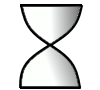
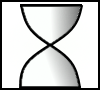
graphical overhaul

Changed region(s): [[0.0, 0.0, 1.0, 1.0]]

diff --git a/src/ui/componentfactory/UtilityComponentFactory.kt b/src/ui/componentfactory/UtilityComponentFactory.kt
@@ -1,6 +1,7 @@
 package ui.componentfactory
 
 import game.Writ
+import javafx.application.Platform
 import javafx.collections.FXCollections
 import javafx.event.EventHandler
 import javafx.geometry.Insets
@@ -9,7 +10,6 @@ import javafx.scene.Node
 import javafx.scene.control.*
 import javafx.scene.image.Image
 import javafx.scene.image.ImageView
-import javafx.scene.image.PixelFormat
 import javafx.scene.image.WritableImage
 import javafx.scene.input.MouseEvent
 import javafx.scene.layout.GridPane
@@ -17,15 +17,14 @@ import javafx.scene.layout.StackPane
 import javafx.scene.text.Font
 import javafx.scene.text.Text
 import javafx.util.Duration
-import jdk.jshell.execution.Util
 import main.UIGlobals
 import shortstate.ShortStateCharacter
 import shortstate.report.Report
 import ui.BOTTOM_BAR_PORTION
 import ui.Describable
+import ui.commoncomponents.PrettyPrintable
 import ui.specialdisplayables.NewSceneSelector
 import ui.specialdisplayables.selectionmodal.Tab
-import java.util.*
 
 object UtilityComponentFactory {
 
@@ -101,12 +100,23 @@ object UtilityComponentFactory {
         return listView
     }
 
-    internal class ActionPickCell<T: Describable>(val closeAction: (T) -> Unit) : ListCell<T>() {
+    internal class ActionPickCell<T: Describable>(val closeAction: ((T) -> Unit)?) : ListCell<T>() {
         public override fun updateItem(item: T?, empty: Boolean) {
             if(item != null){
                 super.updateItem(item, empty)
-                this.graphic = Text(item.description())
-                this.onMouseClicked = EventHandler{_ -> closeAction(item)}
+                val displayText = item.description()
+
+                if(closeAction != null){
+                    this.graphic = UtilityComponentFactory.shortWideButton(displayText, EventHandler { })
+                    this.onMouseClicked = EventHandler { _ -> this.graphic = UtilityComponentFactory.shortWideClickedButton(displayText, EventHandler { });  Platform.runLater { Thread.sleep(100); closeAction!!(item) }}
+                    this.padding = Insets.EMPTY
+                } else {
+                    val node = GridPane()
+
+                    node.add(UtilityComponentFactory.shortWideLabel(displayText),0,0)
+
+                    this.graphic = node
+                }
             }
         }
     }
@@ -120,7 +130,7 @@ object UtilityComponentFactory {
     }
 
     fun shortButton(text: String, action: EventHandler<MouseEvent>?, specialWidth: Double): Node {
-        val retval = proportionalButton(text, action, 4.0)
+        val retval = proportionalButton(text, action, specialWidth)
         return retval
     }
 
@@ -142,7 +152,7 @@ object UtilityComponentFactory {
         return retval
     }
 
-    fun extraShortWideLabel(text: String): Label {
+    fun extraShortWideLabel(text: String): Node {
         val retval = Label(text)
         setSize(retval, 1.0)
         retval.minHeight = UIGlobals.totalHeight()/20
@@ -150,16 +160,28 @@ object UtilityComponentFactory {
         return retval
     }
 
-    fun shortWideLabel(text: String): Label{
+    fun shortWideLabel(text: String): StackPane{
         return shortProportionalLabel(text, 1.0)
     }
 
-    fun shortProportionalLabel(text: String, proportion: Double): Label{
-        val retval = Label(text)
-        setSize(retval, proportion)
-        retval.alignment = Pos.CENTER
-        retval.padding = Insets(15.0)
-        retval.isWrapText = true
+    fun shortProportionalLabel(text: String, proportion: Double): StackPane{
+        return proportionalLabel(text, proportion, 0.1)
+    }
+
+    fun proportionalLabel(text: String, proportion: Double, height: Double): StackPane{
+        val text = Label(text)
+        setSize(text, proportion)
+        text.alignment = Pos.CENTER
+        text.padding = Insets(15.0)
+        text.isWrapText = true
+
+        val retval = StackPane()
+
+        val background = imageView("assets/general/generalInfo.png", height, proportion)
+
+        retval.children.add(background)
+        retval.children.add(text)
+
         return retval
     }
 
@@ -171,7 +193,11 @@ object UtilityComponentFactory {
         val image = if(clicked){ imageView("assets/general/generalButtonSelected.png", height, width)} else {imageView("assets/general/generalButton.png", height, width)}
 
         val text = Text(text)
-        text.font = Font(20.0)
+        if(clicked){
+            text.font = Font(19.0)
+        } else {
+            text.font = Font(20.0)
+        }
 
         val retval = StackPane()
         retval.children.add(image)
@@ -183,6 +209,13 @@ object UtilityComponentFactory {
                 image.fitWidth = UIGlobals.totalWidth() / width; action.handle(event) }
         }
         return retval
+    }
+
+    fun setButtonDisable(button: Node){
+        val buttonAsStack = button as StackPane
+        val oldImage = buttonAsStack.children[0] as ImageView
+        buttonAsStack.children[0] = imageView("assets/general/generalButtonDisabled.png", oldImage.fitHeight / UIGlobals.totalHeight(), UIGlobals.totalWidth()/oldImage.fitWidth)
+        buttonAsStack.onMouseClicked = EventHandler {  }
     }
 
     private fun setSize(node: Control, proportion: Double){

diff --git a/src/ui/specialdisplayables/NewGameMenu.kt b/src/ui/specialdisplayables/NewGameMenu.kt
@@ -2,6 +2,7 @@ package ui.specialdisplayables
 
 import javafx.event.EventHandler
 import javafx.scene.Scene
+import javafx.scene.control.Label
 import javafx.scene.layout.GridPane
 import main.Controller
 import main.UIGlobals
@@ -16,8 +17,8 @@ class NewGameMenu: NoPerspectiveDisplayable() {
 
         val characterDetails = UtilityComponentFactory.shortWideLabel("")
 
-        val characterBio = UtilityComponentFactory.shortWideLabel("")
-        characterBio.setMinSize(UIGlobals.totalWidth(), UIGlobals.totalHeight() * 0.5)
+        val characterBio = UtilityComponentFactory.proportionalLabel("", 1.0 ,0.5)
+        (characterBio.children[1] as Label).setMinSize(UIGlobals.totalWidth(), UIGlobals.totalHeight() * 0.5)
 
         val startGameButton = UtilityComponentFactory.shortWideButton("Start", EventHandler {
             Controller.singleton!!.newGame(TutorialGameSetup.setupAgricultureGame()) })
@@ -27,11 +28,11 @@ class NewGameMenu: NoPerspectiveDisplayable() {
 
         val characterSelectPane = GridPane()
         characterSelectPane.add(UtilityComponentFactory.proportionalButton("Prince Melkar", EventHandler {
-            characterDetails.text = "Age: 15   Difficulty: Easy"
-            characterBio.text = "    You are Melkar, prince of Danswada. Your father, King Mayron, marched to war against the Grogan months ago, but left you behind until recently. You have now arrived at the small allied town of Port Fog, at his summons, only to find he had already departed on campaign. Without an army, you've waited in town for his return. This morning, you hear the sound of an army marching into town... \n    As the heir of a stable dynasty ruling a thriving land, Melkar has a bright future. The realm of Danswada has troubles, which will only grow worse as time goes on, but in the immediate future he has the privilage to be able to make quite a few mistakes. The start of Melkar's story also serves as a game tutorial."; startGameButton.isDisable = false }, 4.0), 0, 0)
-        characterSelectPane.add(UtilityComponentFactory.proportionalButton("", EventHandler { characterDetails.text = ""; characterBio.text = ""; startGameButton.isDisable = true }, 4.0), 1, 0)
-        characterSelectPane.add(UtilityComponentFactory.proportionalButton("", EventHandler { characterDetails.text = ""; characterBio.text = ""; startGameButton.isDisable = true }, 4.0), 2, 0)
-        characterSelectPane.add(UtilityComponentFactory.proportionalButton("", EventHandler { characterDetails.text = ""; characterBio.text = ""; startGameButton.isDisable = true }, 4.0), 3, 0)
+            (characterDetails.children[1] as Label).text = "Age: 15   Difficulty: Easy"
+            (characterBio.children[1] as Label).text = "    You are Melkar, prince of Danswada. Your father, King Mayron, marched to war against the Grogan months ago, but left you behind until recently. You have now arrived at the small allied town of Port Fog, at his summons, only to find he had already departed on campaign. Without an army, you've waited in town for his return. This morning, you hear the sound of an army marching into town... \n    As the heir of a stable dynasty ruling a thriving land, Melkar has a bright future. The realm of Danswada has troubles, which will only grow worse as time goes on, but in the immediate future he has the privilage to be able to make quite a few mistakes. The start of Melkar's story also serves as a game tutorial."; startGameButton.isDisable = false }, 4.0), 0, 0)
+        characterSelectPane.add(UtilityComponentFactory.proportionalButton("", EventHandler { (characterDetails.children[1] as Label).text = ""; (characterBio.children[1] as Label).text = ""; startGameButton.isDisable = true }, 4.0), 1, 0)
+        characterSelectPane.add(UtilityComponentFactory.proportionalButton("", EventHandler { (characterDetails.children[1] as Label).text = ""; (characterBio.children[1] as Label).text = ""; startGameButton.isDisable = true }, 4.0), 2, 0)
+        characterSelectPane.add(UtilityComponentFactory.proportionalButton("", EventHandler { (characterDetails.children[1] as Label).text = ""; (characterBio.children[1] as Label).text = ""; startGameButton.isDisable = true }, 4.0), 3, 0)
 
         pane.add(characterSelectPane,0,2)
 

diff --git a/src/ui/componentfactory/DealComponentFactory.kt b/src/ui/componentfactory/DealComponentFactory.kt
@@ -55,12 +55,12 @@ open class DealComponentFactory {
 
         val bottomPane = GridPane()
         if(deal is UnfinishedDeal){
-            bottomPane.add(UtilityComponentFactory.shortButton("Cancel", EventHandler { resetActions(); UIGlobals.defocus()}),0,0)
+            bottomPane.add(UtilityComponentFactory.shortButton("Cancel", EventHandler { resetActions(); UIGlobals.defocus()}, 4),0,0)
             bottomPane.add(UtilityComponentFactory.shortButton("Import from Writ", EventHandler { UIGlobals.focusOn(
                 SelectionModal( "Writs",
                     UtilityComponentFactory.writs(perspective),
                     { writ -> actions = writ.deal.actions.entries.associate{entry -> entry.key to entry.value.toMutableSet()}.toMutableMap(); setupActionLists(); UIGlobals.defocus() })
-            )}),1,0)
+            )}, 4),1,0)
             bottomPane.add(UtilityComponentFactory.shortButton("Complete", EventHandler { deal.actions = actions ; UIGlobals.defocus()}, 2),2,0)
         } else {
             bottomPane.add(UtilityComponentFactory.backButton(), 0,0)
@@ -76,7 +76,7 @@ open class DealComponentFactory {
         val topPane = GridPane()
         var index = 0
         actions.forEach {
-            val topic = UtilityComponentFactory.proportionalButton("${it.key.name} will...", tapClickAction(it.key), (actions.size+1).toDouble())
+            val topic = UtilityComponentFactory.proportionalButton("${it.key.name} will...", tapClickAction(it.key), (actions.size+1).toDouble(), 0.1, currentPage == it.key)
             if(it.key == currentPage){
                 //topic.font = Font(18.0)
                 //topic.onAction = null
@@ -102,6 +102,7 @@ open class DealComponentFactory {
                     currentPage = actionLists.keys.first()
                 }
             } else{
+
                 currentPage = tab
             }
             UIGlobals.refresh()

diff --git a/src/ui/specialdisplayables/worldgen/WorldEditorMainMenu.kt b/src/ui/specialdisplayables/worldgen/WorldEditorMainMenu.kt
@@ -31,9 +31,9 @@ object WorldEditorMainMenu: NoPerspectiveDisplayable() {
 
         val middlePane = GridPane()
         middlePane.add(terNameDisplay, 0, 0)
-        middlePane.add(UtilityComponentFactory.shortButton("Place Territory Centers", EventHandler { _ -> println("what does this do?") }), 1, 0)
-        middlePane.add(UtilityComponentFactory.shortButton("Clear Capital", EventHandler { _ -> clearCapital() }), 2, 0)
-        middlePane.add(UtilityComponentFactory.shortButton("Save Territory", EventHandler { _ -> updateTerritory() }), 3, 0)
+        middlePane.add(UtilityComponentFactory.shortButton("Place Territory Centers", EventHandler { _ -> println("what does this do?") }, 3.0), 1, 0)
+        middlePane.add(UtilityComponentFactory.shortButton("Clear Capital", EventHandler { _ -> clearCapital() }, 3), 2, 0)
+        middlePane.add(UtilityComponentFactory.shortButton("Save Territory", EventHandler { _ -> updateTerritory() }, 3), 3, 0)
         pane.add(middlePane, 0,1)
 
         val bottomPane = GridPane()

diff --git a/src/ui/componentfactory/WritConstructorComponentFactory.kt b/src/ui/componentfactory/WritConstructorComponentFactory.kt
@@ -28,9 +28,11 @@ class WritConstructorComponentFactory {
 
         root.add(UtilityComponentFactory.shortWideButton("Modify Actions", EventHandler { _ -> UIGlobals.focusOn(parent.deal) }), 0,2)
         val bottomPane = GridPane()
-        bottomPane.add(UtilityComponentFactory.shortButton("Cancel", EventHandler { UIGlobals.defocus()}),0,0)
+        bottomPane.add(UtilityComponentFactory.shortButton("Cancel", EventHandler { UIGlobals.defocus()}, 1.5),0,0)
         if(parent.deal.isEmpty()){
-            bottomPane.add(UtilityComponentFactory.shortButton("(Writ is Empty)", EventHandler {}, 3),1,0)
+            val emptyButton = UtilityComponentFactory.shortButton("(Writ is Empty)", EventHandler {}, 3)
+            UtilityComponentFactory.setButtonDisable(emptyButton)
+            bottomPane.add(emptyButton,1,0)
         } else {
             bottomPane.add(UtilityComponentFactory.shortButton("Create Writ", EventHandler {finish(perspective)}, 3),1,0)
         }

diff --git a/src/ui/specialdisplayables/MainMenu.kt b/src/ui/specialdisplayables/MainMenu.kt
@@ -3,6 +3,7 @@ package ui.specialdisplayables
 import javafx.event.EventHandler
 import javafx.scene.Scene
 import javafx.scene.layout.GridPane
+import javafx.scene.layout.Pane
 import main.Controller
 import main.UIGlobals
 import ui.NoPerspectiveDisplayable
@@ -29,7 +30,7 @@ class MainMenu: NoPerspectiveDisplayable() {
         pane.add( UtilityComponentFactory.shortWideButton("Load", EventHandler { UIGlobals.focusOn(SelectionModal("Load Game", listOf(Tab("save files", saveGames())), { name -> Controller.singleton!!.load(name)}))}), 0, 7)
 
         pane.add(UtilityComponentFactory.shortWideButton("MAP EDITOR",  EventHandler { UIGlobals.focusOn(WorldEditorMainMenu) }), 0, 8)
-        pane.children[8].isDisable = true
+        UtilityComponentFactory.setButtonDisable(pane.children[8])
         pane.add(UtilityComponentFactory.shortWideButton("PLAY NEW GAME", EventHandler {
             UIGlobals.focusOn(NewGameMenu())}), 0, 9)
 

diff --git a/src/game/action/Action.kt b/src/game/action/Action.kt
@@ -4,6 +4,7 @@ import game.Game
 import game.GameCharacter
 import javafx.event.EventHandler
 import javafx.scene.Scene
+import javafx.scene.control.Label
 import javafx.scene.layout.GridPane
 import javafx.scene.text.Font
 import main.UIGlobals
@@ -19,7 +20,7 @@ abstract class Action: Displayable, Describable {
             val root = GridPane()
 
             val title = UtilityComponentFactory.shortWideLabel(action.tooltip(UIGlobals.playingAs()))
-            title.font = Font(20.0)
+            (title.children[1] as Label).font = Font(20.0)
 
             root.add(title,0,0)
             root.add(UtilityComponentFactory.shortWideLabel(action.description()),0,1)

diff --git a/src/ui/componentfactory/MiddlePaneComponentFactory.kt b/src/ui/componentfactory/MiddlePaneComponentFactory.kt
@@ -18,7 +18,7 @@ import ui.specialdisplayables.selectionmodal.SelectionModal
 object MiddlePaneComponentFactory {
 
     fun middlePane(perspective: ShortStateCharacter, locked: Boolean): Pane {
-        val background = UtilityComponentFactory.imageView("assets/general/generalInfo.png", 0.1)
+        val background = UtilityComponentFactory.imageView("assets/general/BottomBackground.png", 0.1)
 
         val mainPane = GridPane()
 

diff --git a/src/ui/componentfactory/WaitingSceneComponentFactory.kt b/src/ui/componentfactory/WaitingSceneComponentFactory.kt
@@ -12,7 +12,6 @@ class WaitingSceneComponentFactory {
 
     fun waitingPage(perspective: ShortStateCharacter): Scene {
         val root = GridPane()
-        root.add(BottomPaneComponentFactory.bottomPane(listOf(UtilityComponentFactory.newSceneButton(perspective)), perspective), 0, 1)
         root.add(waitImage(), 0, 0)
         return Scene(root, UIGlobals.totalWidth(), UIGlobals.totalHeight())
     }
